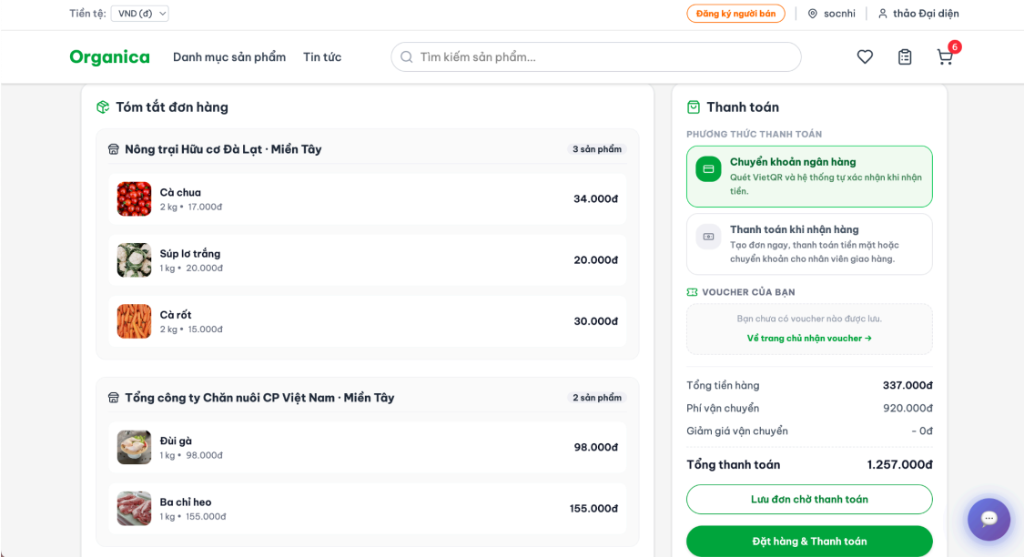
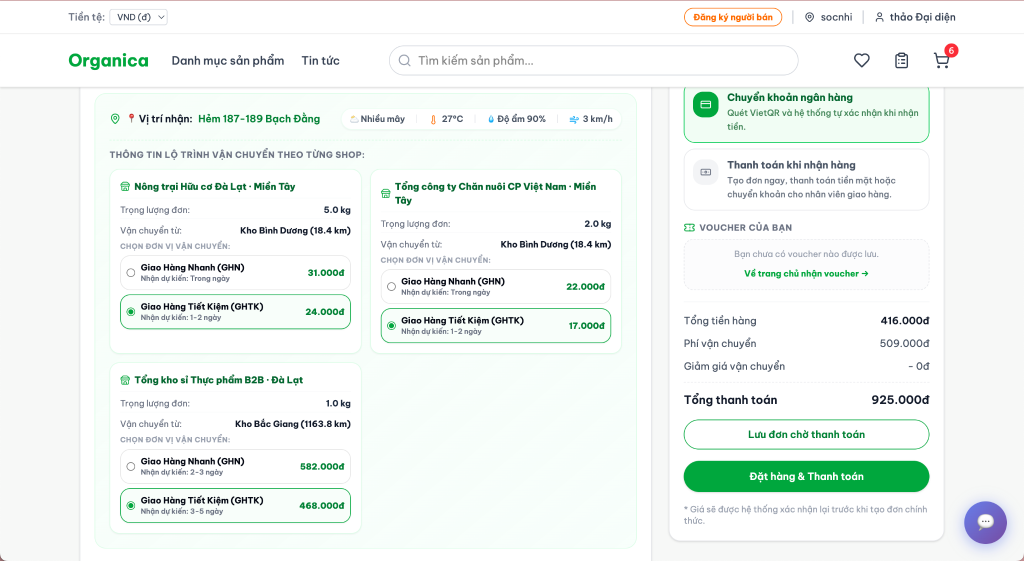
upd

diff --git a/README.md b/README.md
@@ -57,17 +57,16 @@ External APIs:
 ### Trang chủ
 ![Homepage](./docs/screenshots/01_homepage.png)
 
-### Chi tiết sản phẩm
-![Product Detail](<img width="1162" height="874" alt="aa" src="https://github.com/user-attachments/assets/fb128512-e9a7-4907-8265-3b65bd295d64" />)
+### Chi tiết sản phẩm — Bảng chiết khấu sỉ theo số lượng
+![Product Detail](./docs/screenshots/02_product_detail.png)
 
+### Checkout — Tính phí vận chuyển GHN & GHTK theo kho + thời tiết
+![Checkout & Shipping](./docs/screenshots/03_checkout_summary.png)
 
-### Thanh toán & Tóm tắt đơn hàng
-![Checkout](./docs/screenshots/03_checkout_summary.png)
+### Đàm phán giá — RFQ (Yêu Cầu Báo Giá)
+![RFQ](./docs/screenshots/04_rfq.png)
 
-### Tính phí vận chuyển + Thời tiết thực
-![Shipping & Weather](./docs/screenshots/04_shipping_weather.png)
-
-### Quản lý kho hàng (Seller Dashboard)
+### Quản lý kho hàng sỉ (Seller Dashboard)
 ![Seller Inventory](./docs/screenshots/05_seller_inventory.png)
 
 ---
